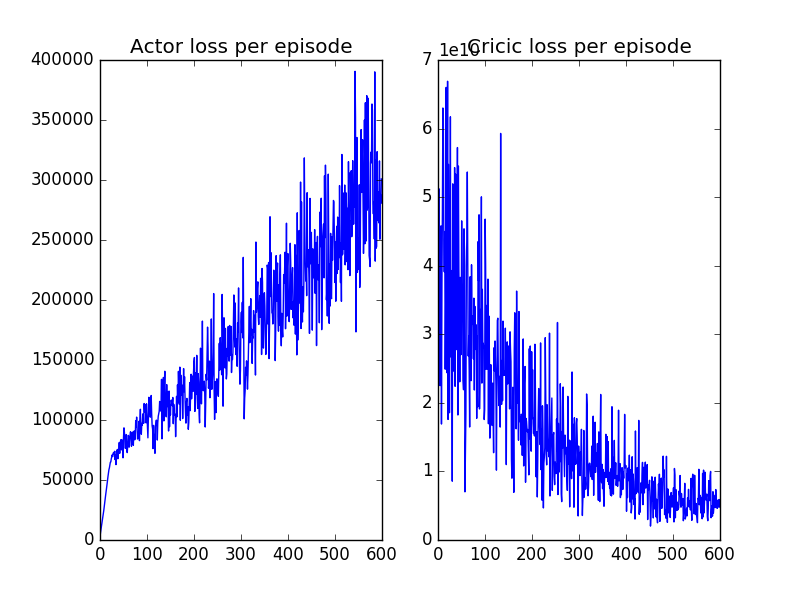
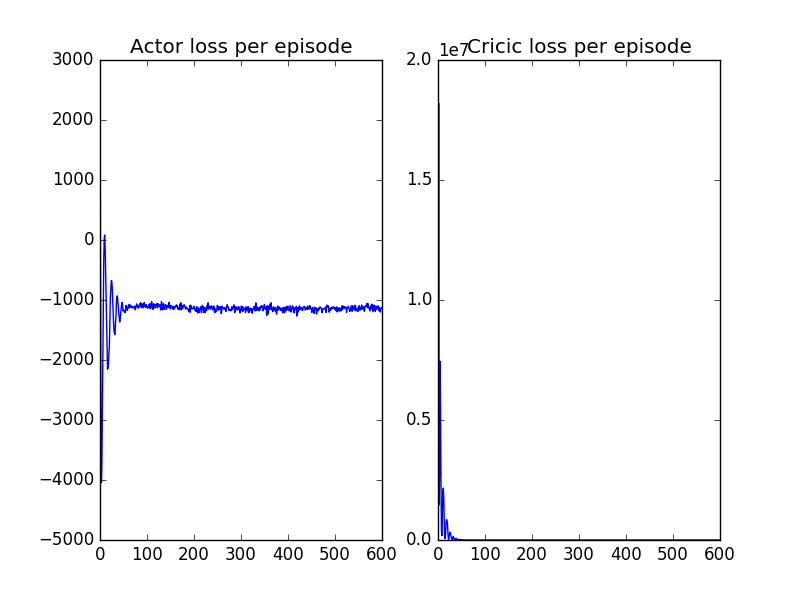
Rewards are normalized

diff --git a/models/test.py b/models/test.py
@@ -118,13 +118,15 @@ def make_stats(policy_rewards, policy_actions, random_rewards, random_actions, D
 
 if __name__ == '__main__':
 	model = Actor(7, 1, 1)
-	model.load_state_dict(torch.load('pytorch_models/DDPG_DICE_0_actor.pt'))
+	model.load_state_dict(torch.load('pytorch_models/DDPG_DICE_0_actor_2.pt'))
 	policy_rewards, policy_actions = test_policy(model)
 	random_rewards, random_actions = random_policy()
 	f = open('results.pckl', 'rb')
 	DP_actions = pickle.load(f)
 	f.close()
 	DP_rewards, DP_actions = test_policy_DP(DP_actions.x)
+	print("The mean and variance for normalizing the rewards")
+	print(np.mean(DP_rewards), np.std(DP_rewards))
 
 	make_stats(policy_rewards, policy_actions, random_rewards, random_actions, DP_rewards, DP_actions)
 

diff --git a/models/demo.py b/models/demo.py
@@ -24,10 +24,12 @@ def find_optimal_policy(stepsize=10):
         env.reset()
         utility = 0
         # execute run
+        list_of_rewards = []
         for step in range(n_steps):
             for _ in range(stepsize):
                 _, r, _ = env.step(muvec[step])
                 utility += r
+                list_of_rewards.append(r)
         # return minus utility (since scipy offers minimize)
         return -(utility/194)+381800  # scale to ease optimization
 

diff --git a/models/dice2007cjl.py b/models/dice2007cjl.py
@@ -147,6 +147,9 @@ class Dice2007cjl(object):
         c = y - i
         u = self.L[t]*((c/self.L[t])**(1-alpha) - 1)/(1-alpha)
         reward = u*self.R[t] # discounted utility
+        # NORMALIZED REWARD FUNCTioN mean = -76567.6 , std = 192489.4
+        reward = (reward - - 76567.6)/192489.4
+        print(reward)
 
         self.time+=1
 
